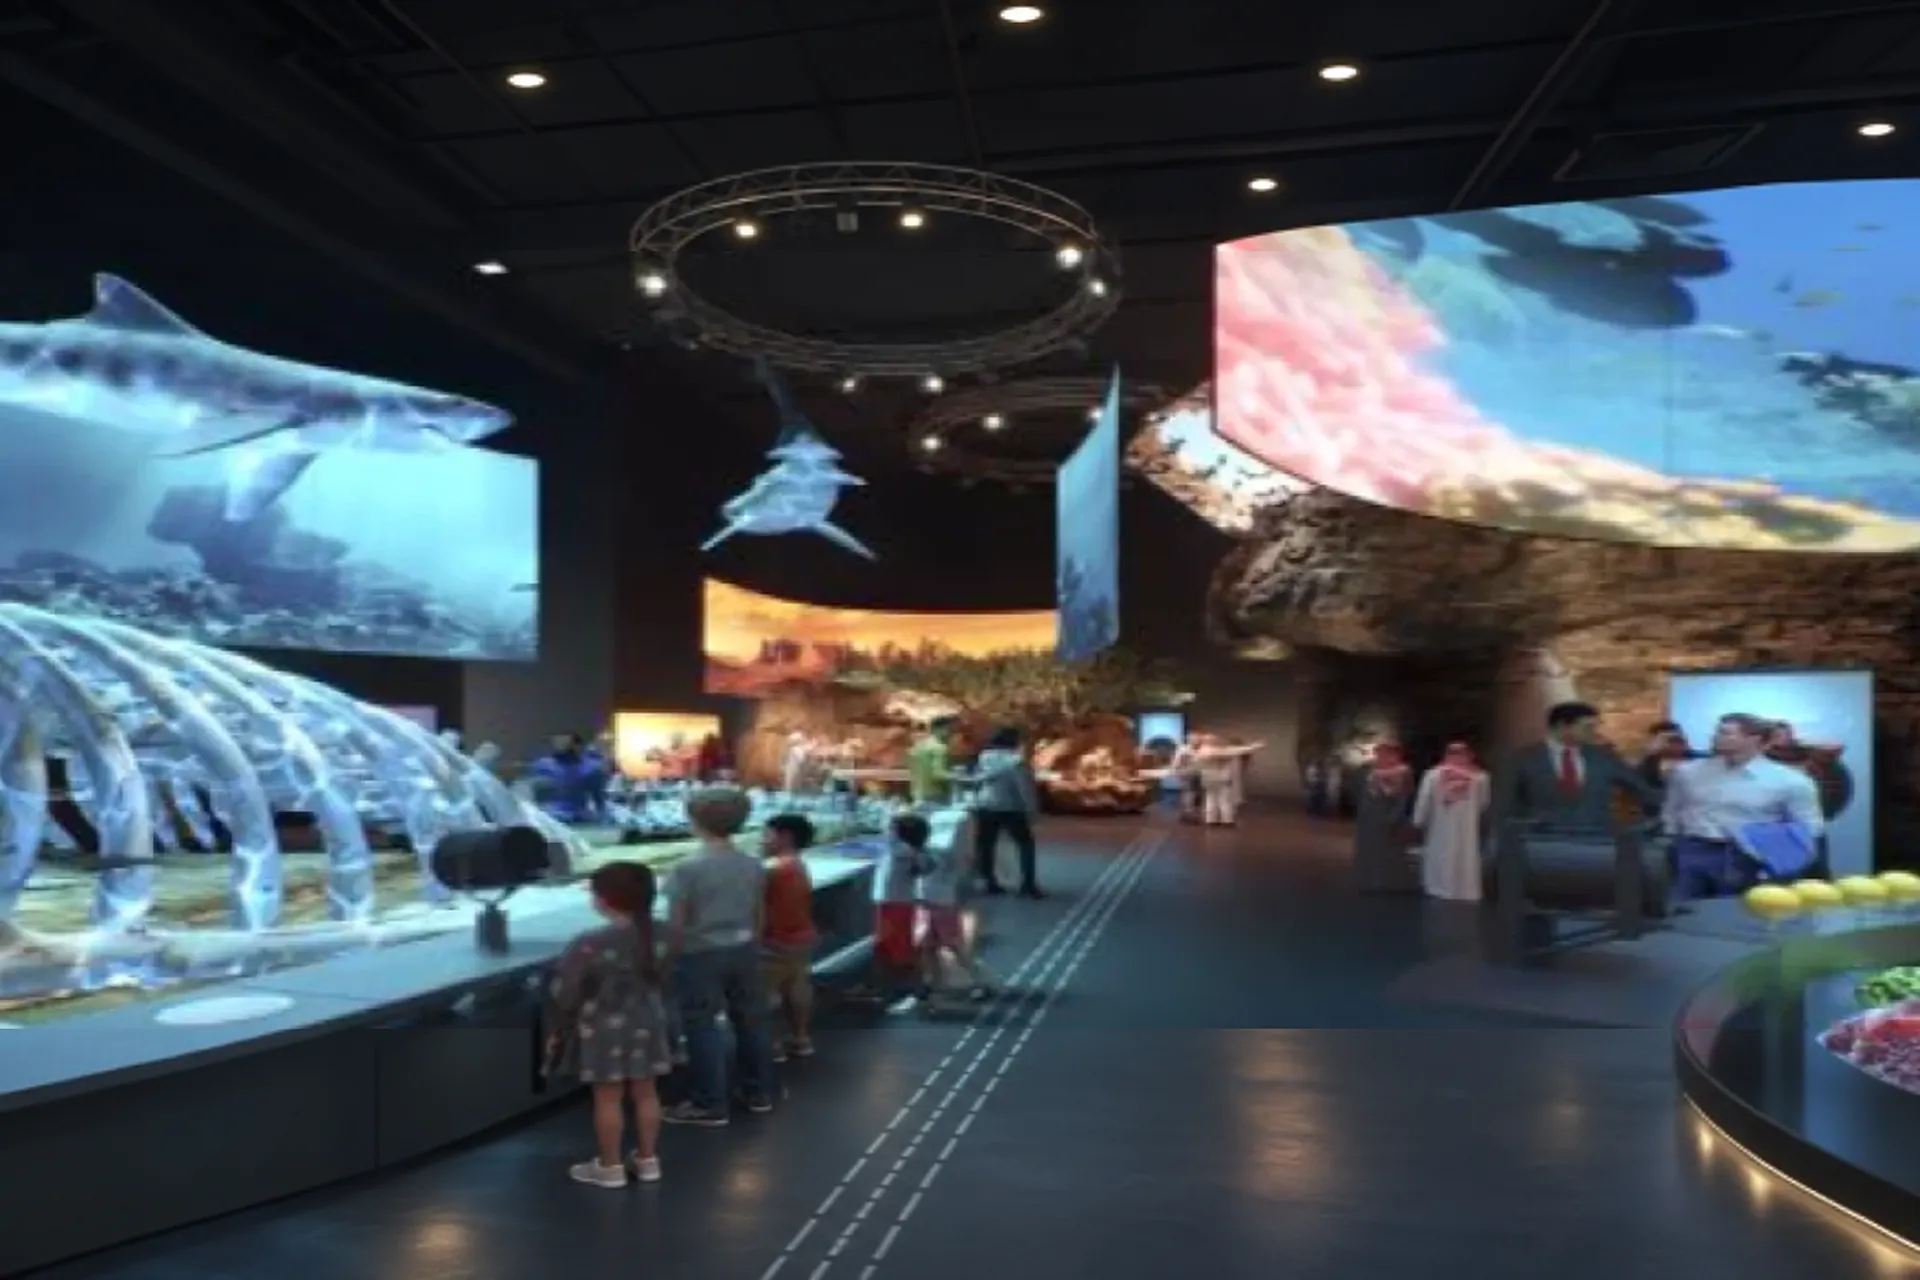
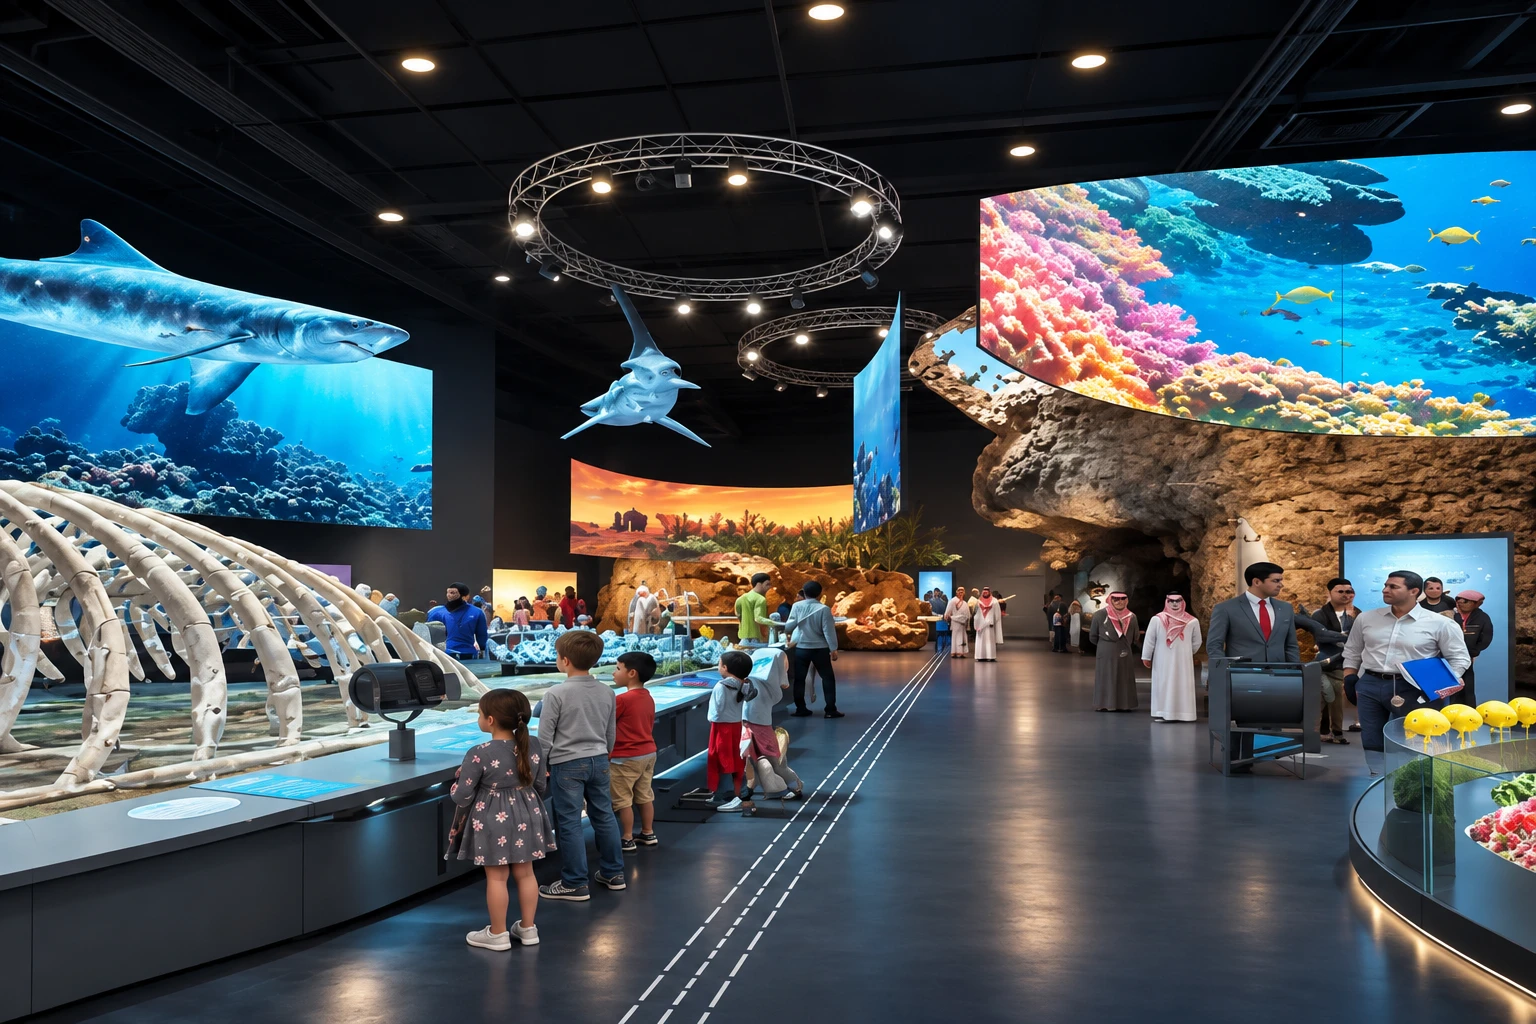
Seed media v15: new Explore space pictures

diff --git a/README.md b/README.md
@@ -45,3 +45,8 @@ Seven `explore/learning` cards replaced with new flat-style exports, same paths:
 `why-are-all-fingerprints-unique`, `why-do-cats-always-land-on-their-feet` and
 `why-does-lightning-flash` (1000 × 1778). Every other file is unchanged from v13, so every older URL
 stays valid.
+
+## v15 — new Explore space pictures
+Seven `explore/spaces` pictures replaced with new 1536 × 1024 exports, same paths: `alardh-garden`,
+`journey-of-inventions`, `life-on-earth`, `live-lab`, `our-bodies`, `our-powers` and
+`wonders-of-energy`. Every other file is unchanged from v14, so every older URL stays valid.
